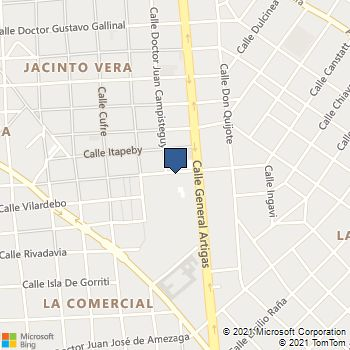
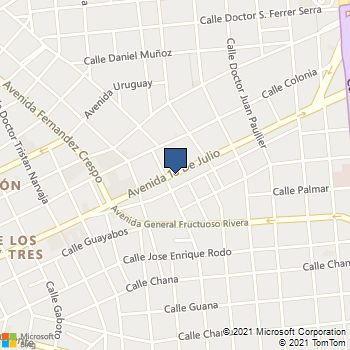
Manejo de los Mapas

diff --git a/src/Library/Handlers/PhotoHandler.cs b/src/Library/Handlers/PhotoHandler.cs
@@ -6,6 +6,7 @@ using Telegram.Bot.Types;
 using Telegram.Bot.Types.Enums;
 using Telegram.Bot.Types.InputFiles;
 using Nito.AsyncEx;
+using System.Collections.Generic;
 
 namespace ClassLibrary
 {
@@ -22,7 +23,7 @@ namespace ClassLibrary
         /// <param name="next">El próximo "handler".</param>
         /// <param name="bot">El bot para enviar la foto.</param>
         public PhotoHandler(TelegramBotClient bot, BaseHandler next)
-            : base(new string[] { "foto" }, next)
+            : base(new string[] { "/ver_mapa","/help","/mostrar_ruta" }, next)
         {
             this.bot = bot;
         }
@@ -35,18 +36,114 @@ namespace ClassLibrary
         /// <returns>true si el mensaje fue procesado; false en caso contrario.</returns>
         protected override bool InternalHandle(IMessage message, out string response)
         {
-            if (this.CanHandle(message))
+            if(message.Text.ToLower().Equals("/help"))
+            {
+                 if (Singleton<DataManager>.Instance.GetCompany(message.UserId) != null )
+                {
+                    response = "Los comandos disponibles para las empresas son\n/vermisdatos\n/registrarse\n/mostrar_materiales\n/ver_mapa\n/cerrar_session";
+                    return true;
+                }else
+                {
+                    if(Singleton<DataManager>.Instance.GetEntrepreneur(message.UserId) != null)
+                    {
+                        response = "Los comandos disponibles para los emprendedores son\n /registrarse\n/vermisdato\n/ver_mapa\n/mostrar_ruta\n/cerrar_session";
+                        return true;
+                    }else
+                    {
+                        response = "Para comenzar indeque el comando /start";
+                        return true;
+                    }
+                 
+                } 
+                          
+            }else
+            {
+            if(message.Text.ToLower().Equals("/mostrar_ruta"))
+            {
+                 if(Singleton<DataManager>.Instance.GetEntrepreneur(message.UserId) != null)
+                    {
+                        LocationApiClient loc = new LocationApiClient();
+                    double lat=0;
+                    double log=0;
+                    
+                    string path=@"route.png";
+                    List<Entrepreneur>  lista = new List<Entrepreneur>();
+                    lista = Singleton<DataManager>.Instance.DataEntrepeneur();
+                   foreach (var item in lista)
+                   {                     
+                       lat =item.Location.Latitude;
+                       log=item.Location.Longitude;
+                   }
+
+                     response = $"";
+                     loc.DownloadRoute(lat,log,-34.88064073732325, -56.14675630747833,path);
+                               
+                    AsyncContext.Run(() => SendProfileImageRout(message));                    
+                    return true;
+                    }
+            }
+            else
+            {
+            
+              if (this.CanHandle(message))
             {
                 // await SendProfileImage(message);
-                AsyncContext.Run(() => SendProfileImage(message));
+                if (Singleton<DataManager>.Instance.GetCompany(message.UserId) != null)
+                {
+                    LocationApiClient loc = new LocationApiClient();
+                    double lat=0;
+                    double log=0;
+                    int zoomLevel = 15;
+                    string path=@"map.png";
+                    List<Company> lista = new List<Company>();
+                    lista = Singleton<DataManager>.Instance.DataCompany();
+                   foreach (var item in lista)
+                   {
+                      
+                       lat =item.Location.Latitude;
+                       log=item.Location.Longitude;
+                   }
+                     response = $"";
+                     loc.DownloadMap(lat,log,path,zoomLevel);
+                               
+                    AsyncContext.Run(() => SendProfileImage(message));                    
+                    return true;
+                }
+                else
+                {
+                    if(Singleton<DataManager>.Instance.GetEntrepreneur(message.UserId) != null)
+                    {
+                        LocationApiClient loc = new LocationApiClient();
+                    double lat=0;
+                    double log=0;
+                    int zoomLevel = 15;
+                    string path=@"map.png";
+                    List<Entrepreneur>  lista = new List<Entrepreneur>();
+                    lista = Singleton<DataManager>.Instance.DataEntrepeneur();
+                   foreach (var item in lista)
+                   {                     
+                       lat =item.Location.Latitude;
+                       log=item.Location.Longitude;
+                   }
+                     response = $"";
+                     loc.DownloadMap(lat,log,path,zoomLevel);
+                               
+                    AsyncContext.Run(() => SendProfileImage(message));                    
+                    return true;
+                    }
+                }
+                
 
                 response = string.Empty;
                 return true;
             }
-
-            response = string.Empty;
-            return false;
-        }
+}
+                response = "Para ayuda indique /help para ayuda con los comandos";
+                 return false; 
+           
+        }  
+            }
+            
 
         /// <summary>
         /// Envía una imagen como respuesta al mensaje recibido. Como ejemplo enviamos siempre la misma foto.
@@ -59,14 +156,33 @@ namespace ClassLibrary
                 
                 await bot.SendChatActionAsync(message.ChatId, ChatAction.UploadPhoto);
 
-                const string filePath = @"C:\Users\gpaz\Desktop\PII_2021_2_Equipo15\Assets\map.png";
+                const string filePath = @"map.png";
                 using var fileStream = new FileStream(filePath, FileMode.Open, FileAccess.Read, FileShare.Read);
                 var fileName = filePath.Split(Path.DirectorySeparatorChar).Last();
 
                 await bot.SendPhotoAsync(
                     chatId: message.ChatId,
                     photo: new InputOnlineFile(fileStream, fileName),
-                    caption: "Te ves bien!"
+                    caption: $"Direccion de la Empresa"
+                );
+            }
+        }
+                private async Task SendProfileImageRout(IMessage message)
+        {
+            // Can be null during testing
+            if (bot != null)
+            {
+                
+                await bot.SendChatActionAsync(message.ChatId, ChatAction.UploadPhoto);
+
+                const string filePath = @"route.png";
+                using var fileStream = new FileStream(filePath, FileMode.Open, FileAccess.Read, FileShare.Read);
+                var fileName = filePath.Split(Path.DirectorySeparatorChar).Last();
+
+                await bot.SendPhotoAsync(
+                    chatId: message.ChatId,
+                    photo: new InputOnlineFile(fileStream, fileName),
+                    caption: $"Camino a la Empresa"
                 );
             }
         }

diff --git a/src/Program/Program.cs b/src/Program/Program.cs
@@ -42,10 +42,8 @@ namespace ClassLibrary
                 new RegistrationHandler(
                 new MaterialsHandler(
                 new DataManagerHandler(
-                new LocationHandler(
-                new CloseSessionHandler(              
-                new DefaultHandler(
-                new PhotoHandler(Bot,null))))))));
+                new CloseSessionHandler(                             
+                new PhotoHandler(Bot,null))))));
             Message message = new Message();
            
             var cts = new CancellationTokenSource();

diff --git a/src/Library/DataManager.cs b/src/Library/DataManager.cs
@@ -42,6 +42,11 @@ namespace ClassLibrary
             
             return companies;
         }
+        public List<Entrepreneur>  DataEntrepeneur()
+        {
+            
+            return entrepreneurs;
+        }
         public void AddPermission(Permission item){
             this.permissions.Add(item);           
         }
